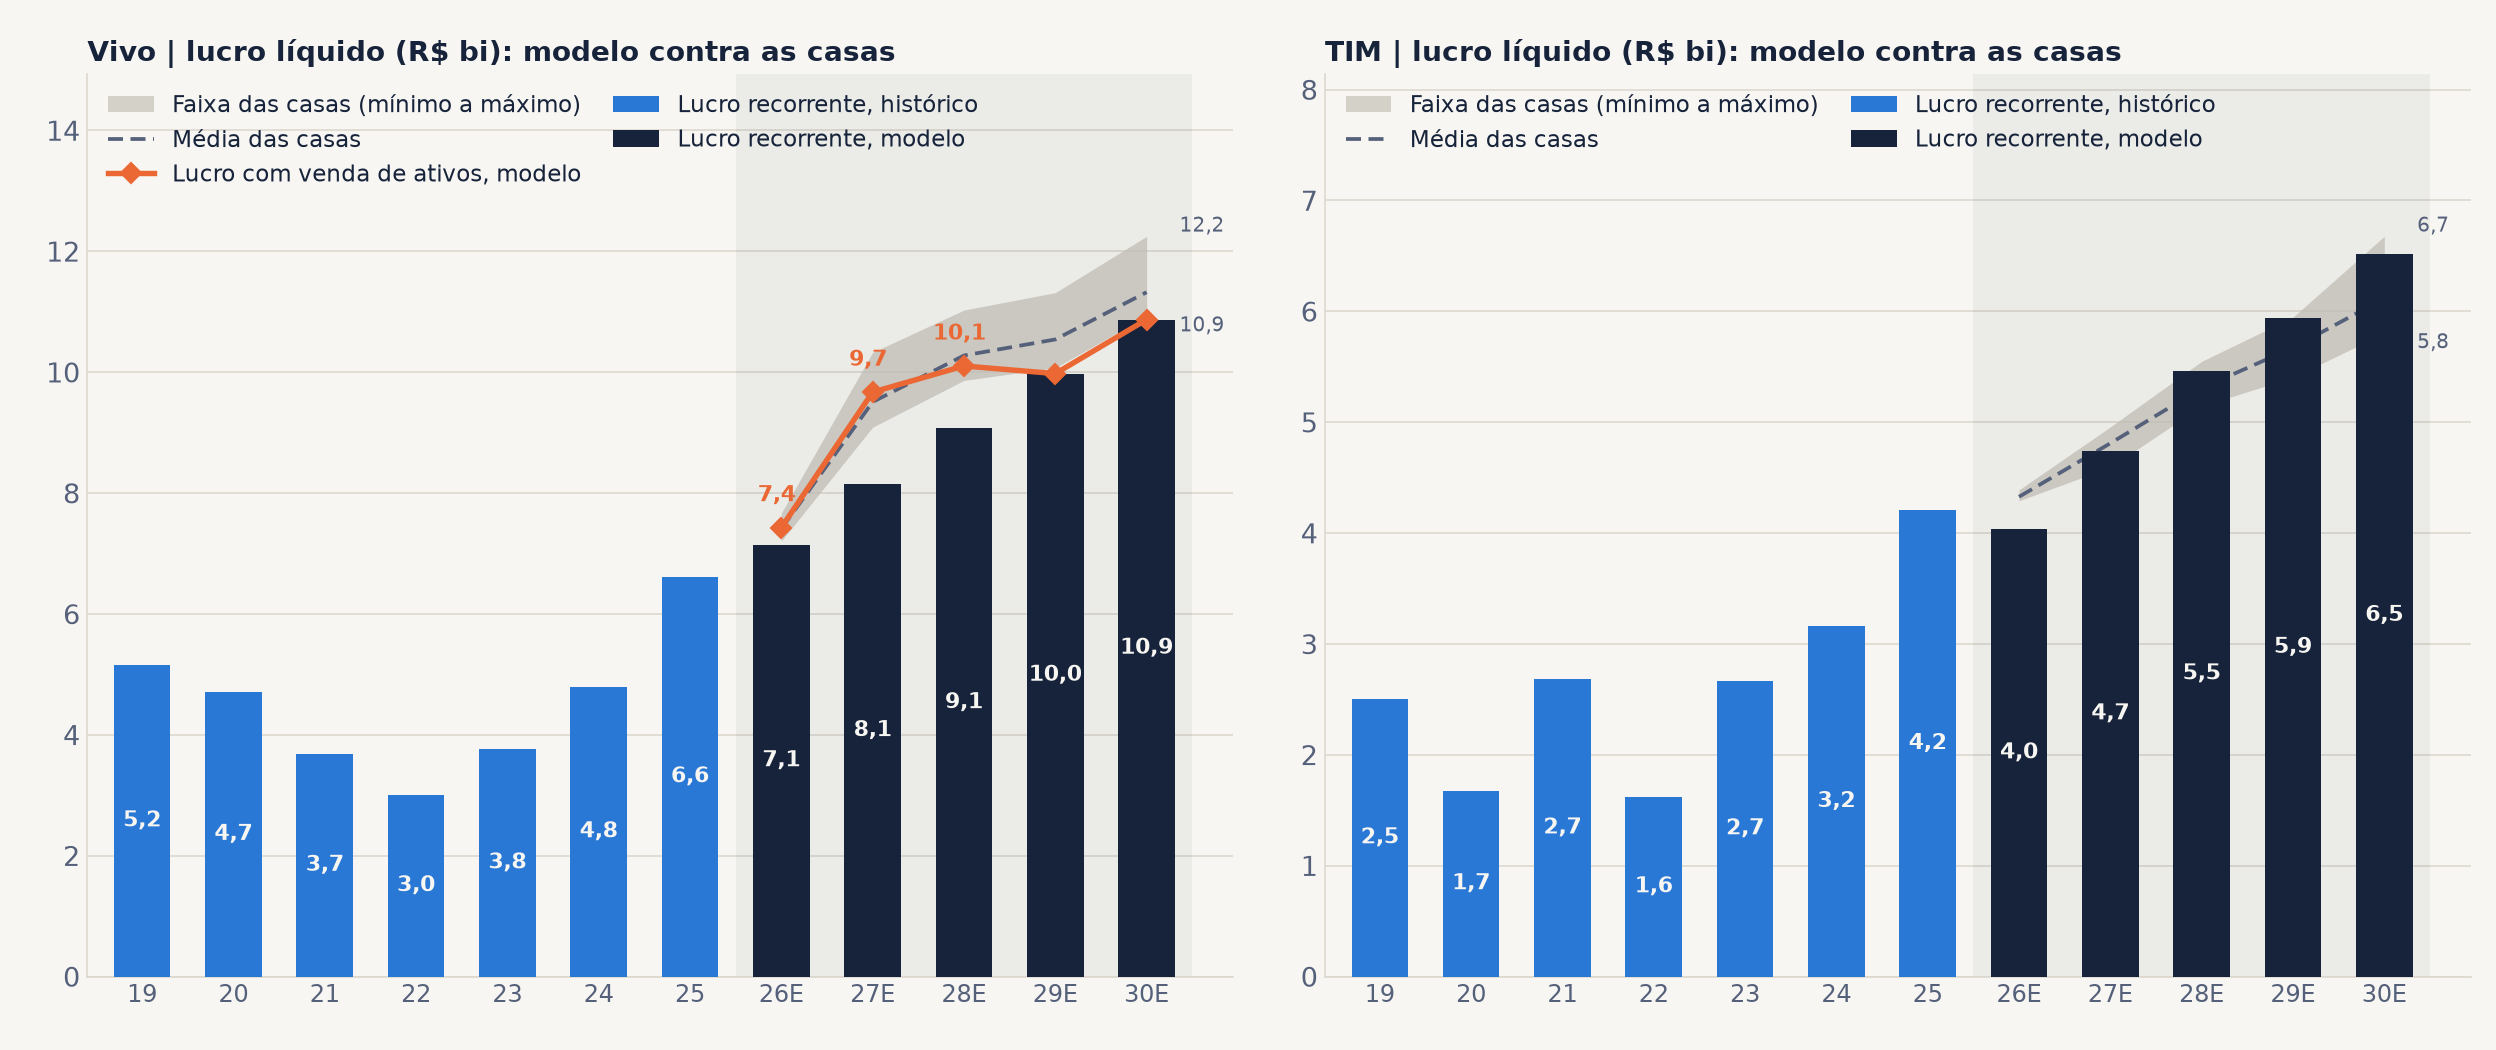
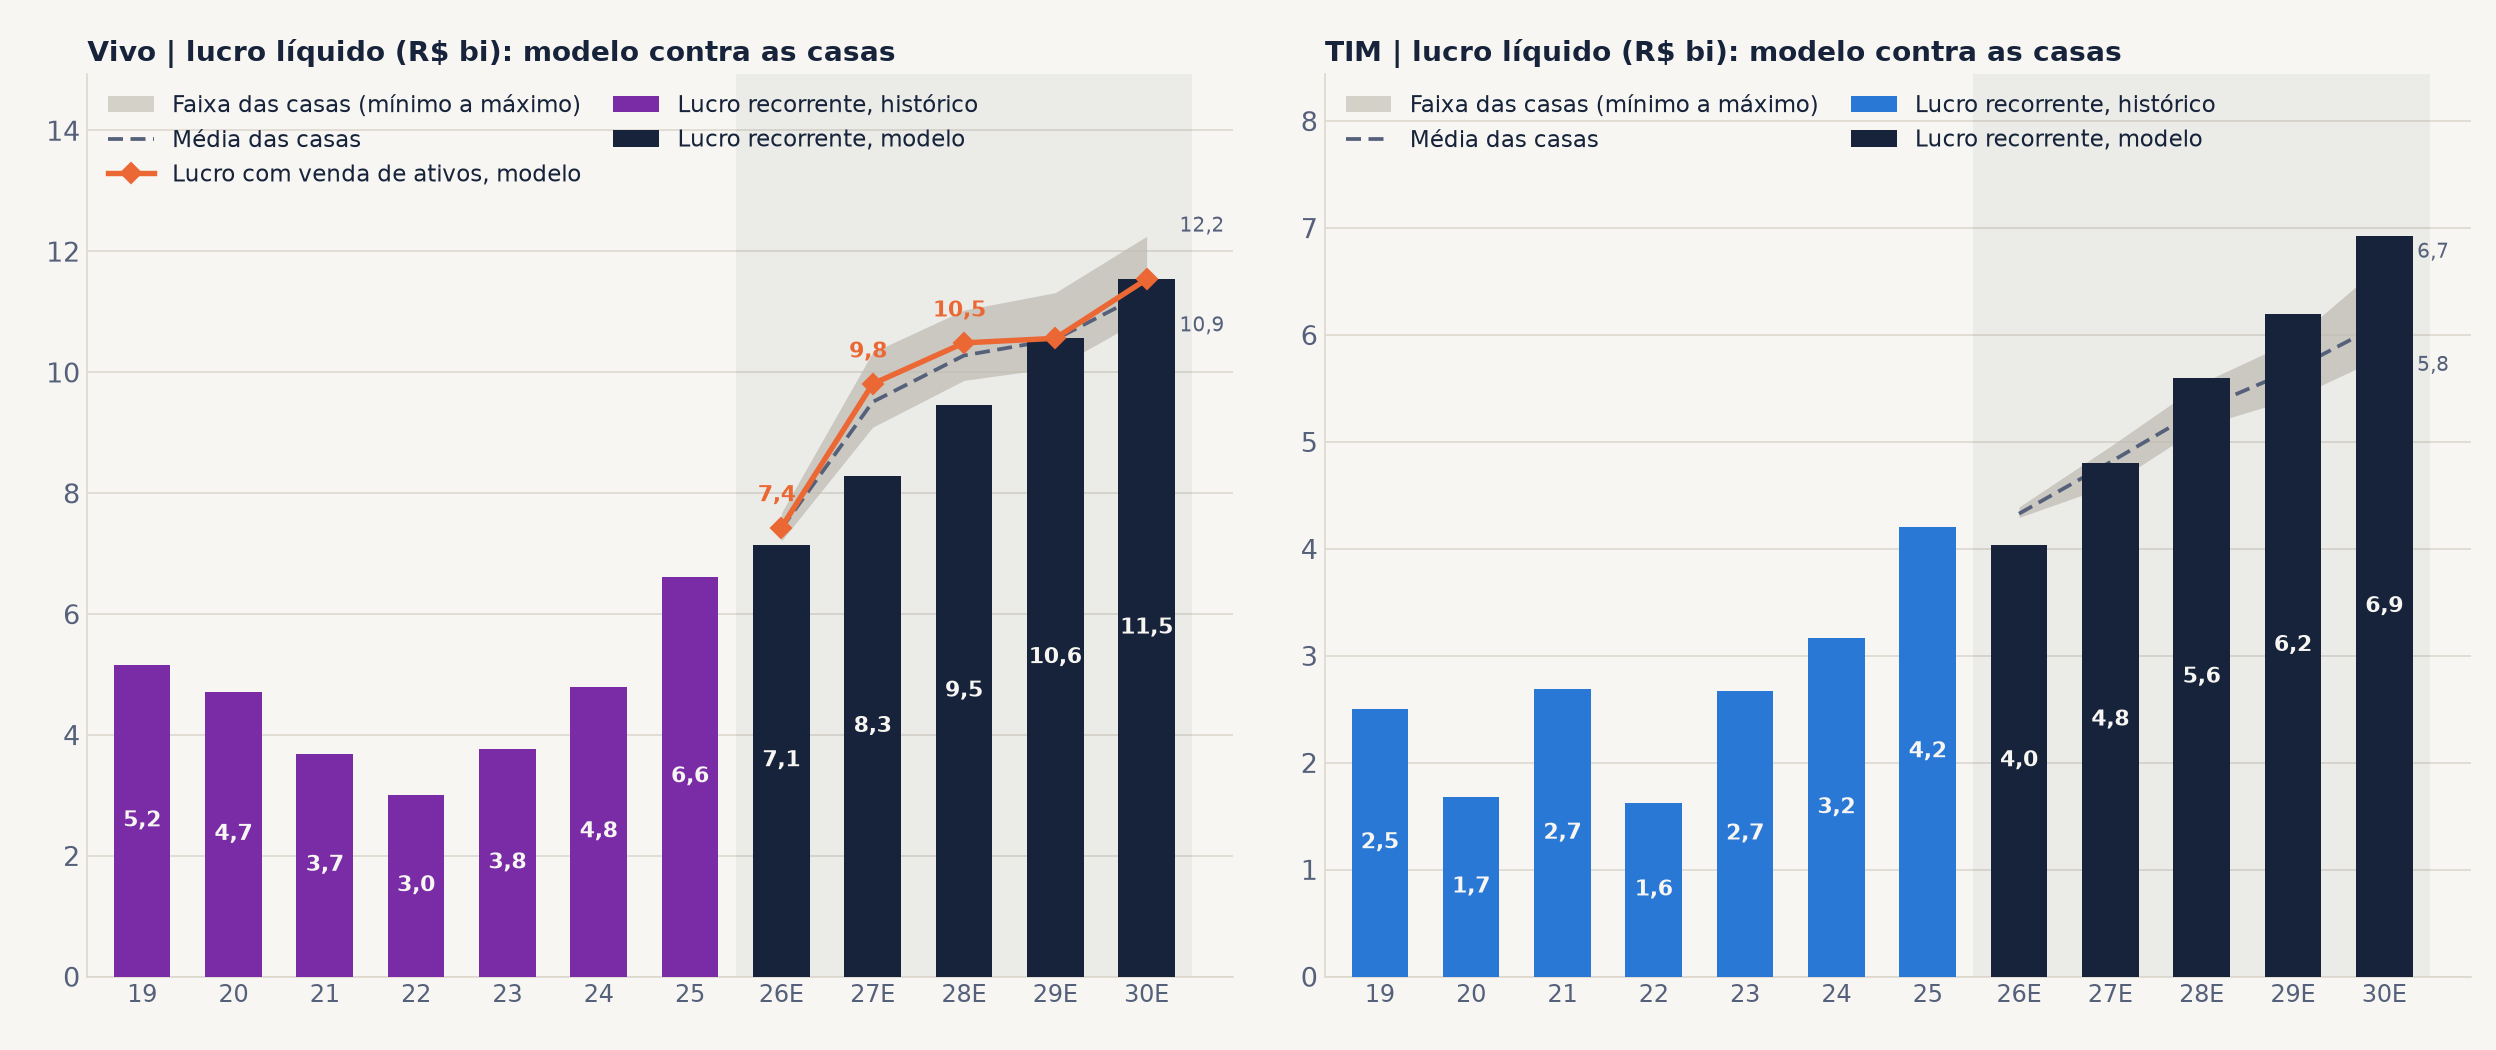
v7.7 · 25/11/2026 13:22 · slides 16 e 17 (lucro e payout) com o modelo vigente

diff --git a/index.html b/index.html
@@ -40,7 +40,7 @@ h1, h2, h3 { font-family:'Space Grotesk', Arial, sans-serif; }
 <div id="palco">
 <section id="capa" class="capa" data-transition="fade">
 <div>
-<p class="chip">v7.6 · 25/11/2026 13:17</p>
+<p class="chip">v7.7 · 25/11/2026 13:22</p>
 </div>
 <div>
 <h1>Telecom Brasil: Vivo e TIM</h1>
@@ -148,17 +148,17 @@ h1, h2, h3 { font-family:'Space Grotesk', Arial, sans-serif; }
 </section>
 <section id="lucro-frente" data-transition="fade">
 <p class="olho">5 · LUCRO LÍQUIDO PARA FRENTE</p>
-<h2 class="titulo">Lucro recorrente: Vivo de R$ 6,6 bi (2025) a R$ 10,9 bi (2030E), TIM de R$ 4,2 bi a R$ 6,5 bi; com venda de ativos, Vivo na faixa das casas até 2028E</h2>
+<h2 class="titulo">Lucro recorrente: Vivo de R$ 6,6 bi (2025) a R$ 11,5 bi (2030E), dentro da faixa das casas; TIM de R$ 4,2 bi a R$ 6,9 bi, acima das casas de 2028E em diante</h2>
 <img class="graf" src="img/v2_5_lucro.png" alt="Lucro líquido recorrente de Vivo e TIM, em bilhões de reais, de 2019 a 2030 estimado, com a faixa e a média das casas; na Vivo, também o lucro do modelo com venda de ativos">
-<p class="fonte">Fonte: planilhas de RI e modelos de 24/11/2026. Casas: Itaú BBA, BBI, BTG, Santander e, na Vivo, UBS. O lucro das casas para a Vivo inclui o ganho com venda de ativos de 2026E a 2028E.</p>
-<aside>Vivo, lucro recorrente do modelo: 7,1 bi em 2026E, 8,1 bi, 9,1 bi, 10,0 bi e 10,9 bi em 2030E. Com venda de ativos: 7,4 bi, 9,7 bi e 10,1 bi de 2026E a 2028E, dentro da faixa das casas (9,1 a 10,3 bi em 2027E); em 2029E e 2030E, 10,0 bi e 10,9 bi, abaixo da faixa (10,1 a 11,3 bi e 10,9 a 12,2 bi). TIM: 4,0 bi em 2026E, abaixo das casas (4,3 a 4,4 bi); 4,7 bi e 5,5 bi em 2027E e 2028E, dentro; 5,9 bi em 2029E e 6,5 bi em 2030E, dentro (5,4 a 5,9 bi e 5,8 a 6,7 bi).</aside>
+<p class="fonte">Fonte: planilhas de RI e modelos de 25/11/2026. Casas: Itaú BBA, BBI, BTG, Santander e, na Vivo, UBS. O lucro das casas para a Vivo inclui o ganho com venda de ativos de 2026E a 2028E.</p>
+<aside>Vivo, lucro recorrente do modelo: R$ 7,1 bi em 2026E, R$ 8,3 bi em 2027E, R$ 9,5 bi em 2028E, R$ 10,6 bi em 2029E e R$ 11,5 bi em 2030E. Com venda de ativos, a base das casas: R$ 7,4 bi, R$ 9,8 bi e R$ 10,5 bi de 2026E a 2028E, dentro da faixa das casas nos três anos (R$ 7,2 a 7,7 bi, R$ 9,1 a 10,3 bi e R$ 9,9 a 11,0 bi); em 2029E e 2030E, sem venda, R$ 10,6 bi e R$ 11,5 bi, também dentro (R$ 10,1 a 11,3 bi e R$ 10,9 a 12,2 bi). TIM: R$ 4,0 bi em 2026E, abaixo das casas (R$ 4,3 a 4,4 bi); R$ 4,8 bi em 2027E, dentro (R$ 4,6 a 5,0 bi); R$ 5,6 bi em 2028E, R$ 6,2 bi em 2029E e R$ 6,9 bi em 2030E, acima da faixa nos três anos (R$ 5,2 a 5,6 bi, R$ 5,4 a 6,0 bi e R$ 5,8 a 6,7 bi). O lucro da TIM cresce 19% em 2027E, 17% em 2028E, 11% em 2029E e 12% em 2030E no modelo, com a receita a 5,0% ao ano e a margem EBITDA subindo até 2029E (slide 9).</aside>
 </section>
 <section id="payout-pot" data-transition="fade">
 <p class="olho">6 · PAYOUT DOS ÚLTIMOS ANOS × PAYOUT POTENCIAL</p>
-<h2 class="titulo">Payout de 2019 a 2025: Vivo pagou 107% com potencial de 134%; TIM pagou 71% com potencial de 78%. Em 2030E o modelo cai para 88% a 89%, abaixo das casas</h2>
+<h2 class="titulo">Payout de 2019 a 2025: Vivo pagou 107% com potencial de 134%; TIM pagou 71% com potencial de 78%. Em 2030E o modelo cai para 85% a 90%, abaixo das casas</h2>
 <img class="graf" src="img/v2_6_payout.png" alt="Payout pago em caixa de Vivo e TIM de 2015 a 2025, payout do modelo de 2026 a 2030 estimados, payout potencial pela geração de caixa sobre o lucro desde 2019 e faixa das casas">
-<p class="fonte">Fonte: CVM (DFP: dividendos, JCP, recompra e redução de capital pagos sobre o lucro) e modelos de 24/11/2026. Potencial = linha Geração Caixa / LL dos modelos. Casas: Itaú BBA, BBI, BTG, Santander e, na Vivo, UBS.</p>
-<aside>Vivo: o potencial oscila com capital de giro e Fistel (209% em 2020, 19% em 2022, 227% em 2023) e fica em 103% em 2025. O modelo distribui 117% do lucro recorrente em 2026E, 104% em 2027E e 89% em 2030E. Sobre o lucro com venda de ativos, como nas casas: 112%, 88% e 87% de 2026E a 2028E, contra 98% a 109% das casas em 2027E; em 2030E, 89% contra 95% a 105%. TIM: pagou 142% em 2025, com potencial de 147%; o modelo distribui toda a geração de caixa, 135% em 2026E, 103% em 2027E e 88% em 2030E, contra 107% a 129% das casas em 2027E e 90% a 101% em 2030E.</aside>
+<p class="fonte">Fonte: CVM (DFP: dividendos, JCP, recompra e redução de capital pagos sobre o lucro) e modelos de 25/11/2026. Potencial = linha Geração Caixa / LL dos modelos. Casas: Itaú BBA, BBI, BTG, Santander e, na Vivo, UBS.</p>
+<aside>Vivo: o potencial oscila com capital de giro e Fistel (209% em 2020, 19% em 2022, 227% em 2023) e fica em 103% em 2025. O modelo distribui 117% do lucro recorrente em 2026E, 107% em 2027E, 100% em 2028E, 94% em 2029E e 90% em 2030E. Sobre o lucro com venda de ativos, como nas casas: 112%, 91% e 90% de 2026E a 2028E, contra 98% a 109% das casas em 2027E; em 2030E, 90% contra 95% a 105%. TIM: pagou 142% em 2025, com potencial de 147%; o modelo distribui toda a geração de caixa, 135% em 2026E, 102% em 2027E, 96% em 2028E, 90% em 2029E e 85% em 2030E, contra 107% a 129% das casas em 2027E e 90% a 101% em 2030E. O payout cai porque a geração de caixa passa a crescer menos que o lucro: a D&A converge para o capex mais o principal de arrendamento (slides 13 a 15). O efeito no yield e na distribuição em reais está no slide 26.</aside>
 </section>
 <section id="fistel-oque" data-transition="fade">
 <p class="olho">7 · FISTEL: O QUE É, DESDE QUANDO NÃO É PAGO E ONDE APARECE</p>

diff --git a/README.md b/README.md
@@ -1,3 +1,3 @@
 # Telecom Brasil: Vivo e TIM
 
-Deck de telecom (v7.6 · 25/11/2026 13:17): o setor contra a inflação e o PIB, receita, margem, EBITDA, capex e arrendamento, lucro, payout, Fistel e valuation de Vivo e TIM.
+Deck de telecom (v7.7 · 25/11/2026 13:22): o setor contra a inflação e o PIB, receita, margem, EBITDA, capex e arrendamento, lucro, payout, Fistel e valuation de Vivo e TIM.
